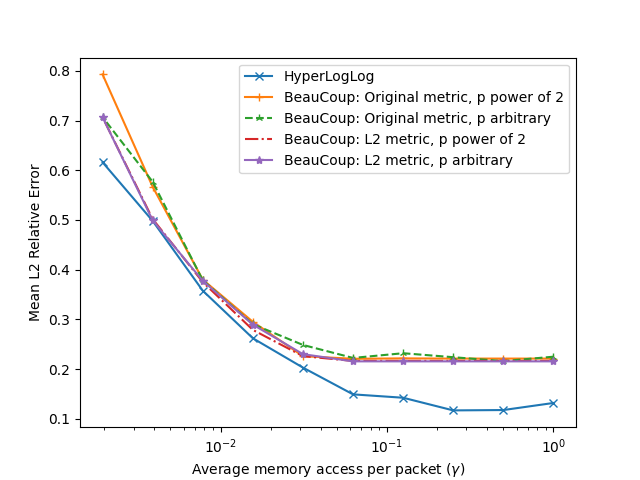
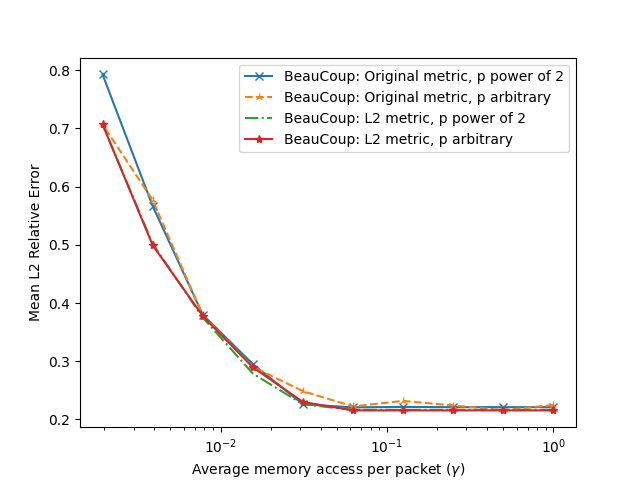
compare multiple hll versions

diff --git a/python/HLL_simulation.py b/python/HLL_simulation.py
@@ -1,8 +1,10 @@
+from python.query_process import NUM_ESTIMATORS
 import random
 import math
 from HLL import HyperLogLog
 
-EST = 6
+NUM_ESTIMATORS = 6
+IND_TIMESTAMP = 5
 
 class Hash_Function:
     func = {}
@@ -34,7 +36,7 @@ class Packet:
         self.pac_info = pac_info      # has srcIP, dstIP, srcPort, dstPort, ... in some fixed order
 
     def get_timestamp(self):
-        return self.pac_info[5];      # TODO: modify accordingly
+        return self.pac_info[IND_TIMESTAMP];      # modify accordingly
 
     def extract(self, indset):        # get values for some index subset from pac_info
         val = []
@@ -47,14 +49,6 @@ class Packet:
 
         attrval = self.extract(attr)
         hashval = attr_to_hashfunc[attr].value(attrval)
-        # query, coupon = which_coupon(attr, hashval)
-        # print(hashval)
-        # if query != None:
-        #     print(query.key)
-        # else:
-        #     print(query)
-        # print(coupon)
-        # print()
         return which_coupon(attr, hashval)
 
     def collect_coupon(self):
@@ -66,7 +60,6 @@ class Packet:
             if query != None:
                 collected.append((query, attr))
 
-        # print(len(collected))
         if len(collected) == 1:
             return collected[0]
         elif len(collected) == 2:
@@ -98,7 +91,7 @@ class HLLTable:
 
         if qk_pair not in self.table.keys() or self.table_timestamp[qk_pair] < timestamp - self.W:
             self.table_timestamp[qk_pair] = timestamp
-            self.table[qk_pair] = HyperLogLog(EST)
+            self.table[qk_pair] = HyperLogLog(NUM_ESTIMATORS)
             self.table_count[qk_pair] = self.table[qk_pair].cardinality()
 
         self.table[qk_pair].add(str(attr)) # expect attr to be string
@@ -109,8 +102,14 @@ class HLLTable:
             print("Output alert for query, keyval here ")
             print(query.key) 
 
-        # print(self.table[qk_pair])  
-
+class countTable:
+    table = {}
+    
+    def count_packet(self, packet):
+        for query in queries:
+            keyval = packet.extract(query.key)
+            qk_pair = (query, keyval)
+            self.table[qk_pair] = self.table.get(qk_pair, 0) + 1
 
 # Main
 
@@ -150,53 +149,8 @@ attr_to_hashfunc = {}
 pre_process()
 
 hlltable = HLLTable(5);
+count_table = countTable();
 
 for pack in packets:
     hlltable.add_packet(pack)
-
-
-# print(queries)
-# print(packets)
-# for attr in attributes:
-#     print(attr_to_querylist[attr])
-# print(attr_to_querylist)
-# print(attr_to_hashfunc)
-
-# print(attributes)
-# print(packets[3].extract(queries[2].key))
-# print(packets[3].extract(queries[2].attr))
-# print()
-
-# query, coupon = which_coupon(frozenset([1,3]), 1/4+3/16)
-# print(query.key);
-# print(coupon)
-# print()
-# query, coupon = which_coupon(frozenset([1,3]), 3/4-0.001)
-# print(query.key);
-# print(coupon)
-# print()
-# query, coupon = which_coupon(frozenset([1,3]), 3/4)
-# print(query);
-# print(coupon)
-# print()
-# query, coupon = which_coupon(frozenset([1]), 1/8)
-# print(query.key);
-# print(coupon)
-# print()
-
-# query, coupon = packets[1].collect_coupon()
-# if query != None:
-#     print(query.key)
-# else:
-#     print(query)
-# print(coupon)
-# print()
-
-######################################################################
-
-hll = HyperLogLog(6)
-data = range(5000)
-for i in data:
-    if random.random() > 0.2:
-        hll.add(str(i) + str(random.random()))
-hll.cardinality()
+    count_table.count_packet(pack)

diff --git a/python/plot_graph.py b/python/plot_graph.py
@@ -64,14 +64,35 @@ for line in f:
     list_l2_rel_error_HLL.append(l2_rel_error)
 f.close()
 
+f = open("HLL_errors_8.txt", "r")
+list_gammas = []
+list_rel_error_HLL_8 = []
+list_l2_rel_error_HLL_8 = []
+for line in f:
+    gamma, rel_error, l2_rel_error = [float(x) for x in line.split(",")]
+    list_gammas.append(gamma)
+    list_rel_error_HLL_8.append(rel_error)
+    list_l2_rel_error_HLL_8.append(l2_rel_error)
+f.close()
+
+f = open("HLL_errors_16.txt", "r")
+list_gammas = []
+list_rel_error_HLL_16 = []
+list_l2_rel_error_HLL_16 = []
+for line in f:
+    gamma, rel_error, l2_rel_error = [float(x) for x in line.split(",")]
+    list_gammas.append(gamma)
+    list_rel_error_HLL_16.append(rel_error)
+    list_l2_rel_error_HLL_16.append(l2_rel_error)
+f.close()
 
 # plot relative error
 
-plt.plot(list_gammas, list_rel_error_HLL, "x-", label="HyperLogLog")
-plt.plot(list_gammas, list_rel_error_BC00, "+-", label="BeauCoup: Original metric, p power of 2")
+plt.plot(list_gammas, list_rel_error_BC00, "x-", label="BeauCoup: Original metric, p power of 2")
 plt.plot(list_gammas, list_rel_error_BC01, "2--", label="BeauCoup: Original metric, p arbitrary")
 plt.plot(list_gammas, list_rel_error_BC10, "-.", label="BeauCoup: L2 metric, p power of 2")
 plt.plot(list_gammas, list_rel_error_BC11, "*-", label="BeauCoup: L2 metric, p arbitrary")
+
 
 plt.ylabel("Mean Relative Error")
 plt.xscale('log', basex=10)
@@ -82,11 +103,11 @@ plt.close()
 
 
 # plot l2 relative error
-plt.plot(list_gammas, list_l2_rel_error_HLL, "x-", label="HyperLogLog")
-plt.plot(list_gammas, list_l2_rel_error_BC00, "+-", label="BeauCoup: Original metric, p power of 2")
+plt.plot(list_gammas, list_l2_rel_error_BC00, "x-", label="BeauCoup: Original metric, p power of 2")
 plt.plot(list_gammas, list_l2_rel_error_BC01, "2--", label="BeauCoup: Original metric, p arbitrary")
 plt.plot(list_gammas, list_l2_rel_error_BC10, "-.", label="BeauCoup: L2 metric, p power of 2")
 plt.plot(list_gammas, list_l2_rel_error_BC11, "*-", label="BeauCoup: L2 metric, p arbitrary")
+
 
 plt.ylabel("Mean L2 Relative Error")
 plt.xscale('log', basex=10)
@@ -102,4 +123,17 @@ plt.xscale('log', basex=10)
 plt.xlabel('Average memory access per packet ($\gamma$)')
 plt.legend()
 plt.savefig("figures/bias.png")
+plt.close()
+
+plt.plot(list_gammas, list_rel_error_BC00, "x-", label="BeauCoup: Original metric, p power of 2")
+plt.plot(list_gammas, list_rel_error_HLL_8, "2--", label="HyperLogLog 8 estimators")
+plt.plot(list_gammas, list_rel_error_HLL_16, "-.", label="HyperLogLog 16 estimators")
+plt.plot(list_gammas, list_rel_error_HLL, "+-", label="HyperLogLog 64 estimators")
+
+
+plt.ylabel("Mean Relative Error")
+plt.xscale('log', basex=10)
+plt.xlabel('Average memory access per packet ($\gamma$)')
+plt.legend()
+plt.savefig("figures/hll_compare.png")
 plt.close()

diff --git a/python/simulation.py b/python/simulation.py
@@ -1,5 +1,8 @@
+from python.HLL_simulation import IND_TIMESTAMP
 import random
 import math
+
+IND_TIMESTAMP = 5
 
 class Hash_Function:
     func = {}
@@ -34,7 +37,7 @@ class Packet:
         self.pac_info = pac_info      # has srcIP, dstIP, srcPort, dstPort, ... in some fixed order
 
     def get_timestamp(self):
-        return self.pac_info[5];      # TODO: modify accordingly
+        return self.pac_info[IND_TIMESTAMP];      # modify accordingly
 
     def extract(self, indset):        # get values for some index subset from pac_info
         val = []
